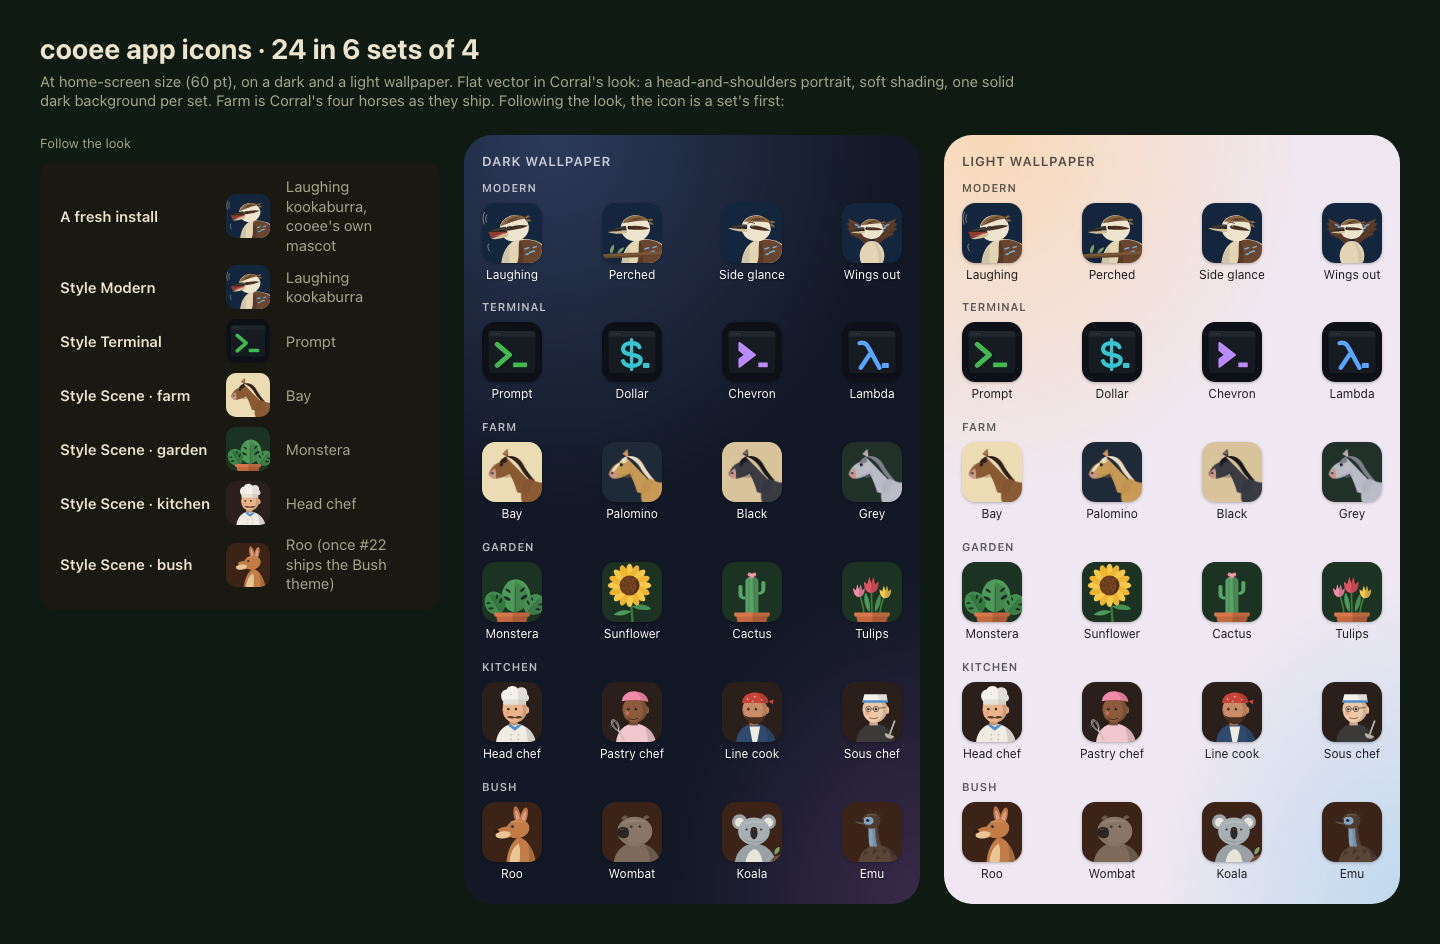
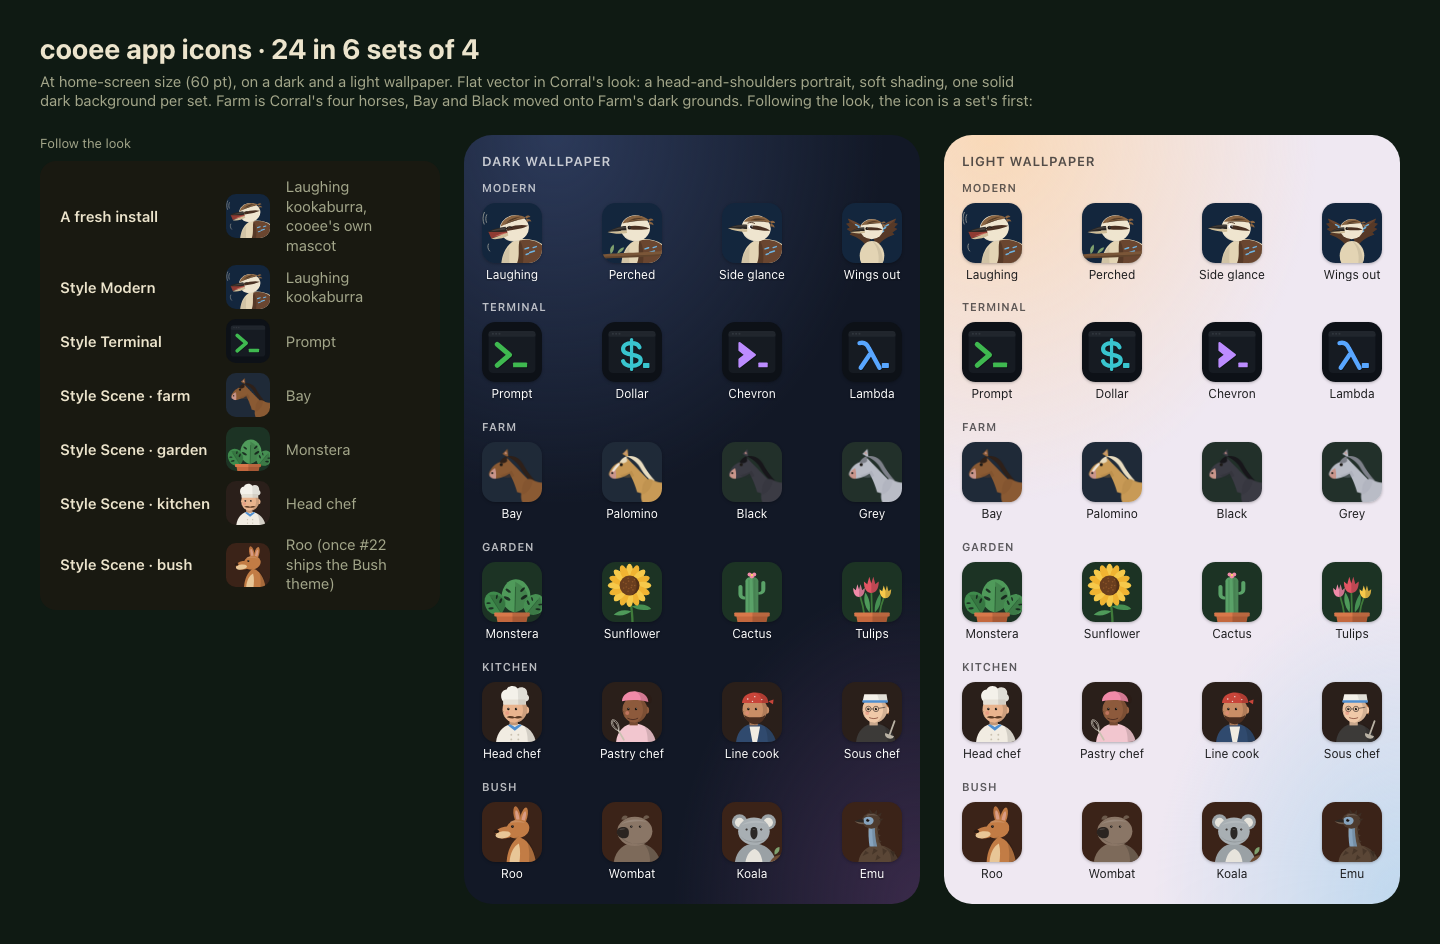
design: Farm Bay and Black on dark grounds, no paragraph under Follow the look (#225)

diff --git a/docs/design/app-icons/ai.js b/docs/design/app-icons/ai.js
@@ -24,14 +24,11 @@ const wallpaper = (kind, title) => `<div class="wp ${kind}"><h3>${title}</h3>${S
 // The picker: Follow the look, then every set as four tiles.
 function picker(picked) {
   const follow = `<div class="rw two">${img('modern', 'laughing', 44)}<div class="tx">Follow the look<small>${picked ? "Off · would show Laughing · Modern" : "Now: Laughing · Modern"}</small></div>${picked ? '' : '<span class="ck">✓</span>'}</div>`;
-  const foot = picked
-    ? `<p class="sf">${picked[1]} stays through Style and Theme changes until you choose Follow the look.</p>`
-    : `<p class="sf">The icon changes with Style and Theme: Modern and Terminal show their set's first icon, Scene its theme's.</p>`;
   const sets = SETS.map(([set, label, , icons]) => group(label, `<div class="tg4">${icons.map(([n, name]) => {
     const cls = picked ? (picked[0] === `${set}-${n}` ? ' on' : '') : (set === 'modern' && n === 'laughing' ? ' now' : '');
     return `<div class="tl${cls}"><div class="fr">${img(set, n, 64)}</div><span>${name}</span></div>`;
   }).join('')}</div>`)).join('');
-  return phone(group('', follow) + foot + sets, 'Look', 'App icon');
+  return phone(group('', follow) + sets, 'Look', 'App icon');
 }
 
 function look() {
@@ -48,7 +45,7 @@ const mapping = `<div class="map">${MAP.map(([when, set, n, what]) => `<b>${when
 
 const FRAMES = {
   sheet: () => `<div class="ph">${status}<div class="lt">App icons</div><div class="pg">${wallpaper('d', 'Dark wallpaper')}${wallpaper('l', 'Light wallpaper')}</div></div>`,
-  'wide-sheet': () => `<div class="bd"><h1>cooee app icons · 24 in 6 sets of 4</h1><p>At home-screen size (60 pt), on a dark and a light wallpaper. Flat vector in Corral's look: a head-and-shoulders portrait, soft shading, one solid dark background per set. Farm is Corral's four horses as they ship. Following the look, the icon is a set's first:</p>
+  'wide-sheet': () => `<div class="bd"><h1>cooee app icons · 24 in 6 sets of 4</h1><p>At home-screen size (60 pt), on a dark and a light wallpaper. Flat vector in Corral's look: a head-and-shoulders portrait, soft shading, one solid dark background per set. Farm is Corral's four horses, Bay and Black moved onto Farm's dark grounds. Following the look, the icon is a set's first:</p>
     <div class="cols" style="grid-template-columns:400px 1fr 1fr"><div><p class="cap">Follow the look</p>${mapping}</div>${wallpaper('d', 'Dark wallpaper')}${wallpaper('l', 'Light wallpaper')}</div></div>`,
   look, picker: () => picker(null), picked: () => picker(['bush-koala', 'Koala']),
   'wide-picker': () => {

diff --git a/docs/design/app-icons/ai.css b/docs/design/app-icons/ai.css
@@ -36,7 +36,6 @@ body{margin:0;font:15px/1.3 var(--font);-webkit-font-smoothing:antialiased}
 .rw .cv{color:var(--mute);font-size:15px;font-weight:600}
 .rw.two{min-height:64px;padding:10px 14px}
 .rw .tx{display:flex;flex-direction:column;gap:2px;min-width:0}.rw .tx small{color:var(--mute);font-size:13px;white-space:nowrap;overflow:hidden;text-overflow:ellipsis}
-.sf{margin:-12px 16px 0;font-size:13px;color:var(--mute)}
 
 /* the picker: four tiles to a set */
 .tg4{display:grid;grid-template-columns:repeat(4,1fr);gap:4px;padding:12px 8px 10px}

diff --git a/docs/design/app-icons/farm.py b/docs/design/app-icons/farm.py
@@ -1,0 +1,34 @@
+"""#225 (q1289): Farm's Bay and Black on a dark background, rendered by Corral's own generator.
+
+Corral's design gate (`docs/design/evidence/issue-462-horse-icons/tools/gen_icons.py` at 060220c3) draws the four
+Treatment-A masters with one `BG` per coat. Nothing else changes here: same canonical `horsesvg.py`, crop, pose and
+supersampling. Only Bay and Black move from Corral's light grounds onto Farm's two dark ones, the ones Palomino and Grey
+already use. Rendering Palomino and Grey this way reproduces Corral's shipped masters byte for byte, which proves
+the pipeline matches.
+
+Usage: uv run --no-project --with pillow python docs/design/app-icons/farm.py <corral checkout at 060220c3>
+"""
+
+import hashlib
+import sys
+from pathlib import Path
+
+CORRAL = Path(sys.argv[1]).resolve()
+sys.path.insert(0, str(CORRAL / 'docs/design/evidence/issue-462-horse-icons/tools'))
+import gen_icons as g  # noqa: E402
+
+OUT = Path(__file__).resolve().parent / 'icons'
+GROUND = {'bay': '#1f2a38', 'palomino': '#1f2a38', 'black': '#22302a', 'grey': '#22302a'}
[2 lines of base64/hex data omitted]
+
+prims = {c: g.svgmini.parse_primitives(g.horsesvg.horse_svg(g.identity(c), g.POSE, False, g.FACING, False))
+         for c in g.COATS}
+window = g.crop_windows(prims['bay'])[0]
+for coat in g.COATS:
+    out = OUT / f'farm-{coat}.png'
+    g.render_window(prims[coat], window, GROUND[coat], out)
+    digest = hashlib.sha256(out.read_bytes()).hexdigest()
+    if coat in SHIPPED and digest != SHIPPED[coat]:
+        sys.exit(f'farm-{coat}.png drifted from Corral\'s shipped master: {digest}')
+    print(f'farm-{coat}.png {GROUND[coat]} {digest}')

diff --git a/docs/design/app-icons/README.md b/docs/design/app-icons/README.md
@@ -3,7 +3,7 @@
 There are 24 iOS and macOS app icons. They are flat vector, in the look of Corral's horses (its herd-art Treatment A):
 a head-and-shoulders portrait facing left, flat fills with soft shading (black or white at low opacity), and one
 solid dark background per set. The icon **follows the look** (Style, and for Scene the theme), and Look → App icon
-lets you **pick any of the 24 instead**. Owner decisions: q1281–q1288.
+lets you **pick any of the 24 instead**. Owner decisions: q1281–q1289.
 
 The pages are built on the native v1 look (`apple/design/v1/`). `ai.css` copies `Theme.swift`'s `Palette.farmDark`
 and `.farmLight` token for token. Its groups, rows, uppercase headers and checkmarks follow `Sheets.swift`'s `Group2`
@@ -12,7 +12,8 @@ checkmark in `link`. The only new pieces are the icon squircle, the picker's fou
 
 | file | what |
 |---|---|
-| `icons/` | The 24 icons. `farm-*.png` are Corral's four approved masters, **copied byte for byte** (`jirathip-dev/corral` `ios/FleetNotifier/Assets.xcassets/{AppIcon,Palomino,Black,Grey}.appiconset`, 1024 × 1024 opaque RGB). The other 20 are `<set>-<name>.svg` at 1024 × 1024. |
+| `icons/` | The 24 icons. `farm-*.png` are Corral's four Treatment-A horses at 1024 × 1024 opaque RGB. Palomino and Grey are byte-identical to Corral's shipped masters. Bay and Black are re-rendered on dark grounds (q1289). The other 20 are `<set>-<name>.svg` at 1024 × 1024. |
+| `farm.py` | Renders the four `farm-*.png` with **Corral's own generator**: `uv run --no-project --with pillow python docs/design/app-icons/farm.py <corral checkout at 060220c3>`. It uses `gen_icons.py` from Corral's #462 design gate and the canonical `horsesvg.py`, with the same crop, pose and supersampling, and changes only the `BG` of each coat. It fails if Palomino or Grey drift from Corral's shipped bytes, so the pipeline is proven identical. |
 | `art.mjs` | Draws the 20 SVGs: `node docs/design/app-icons/art.mjs`. |
 | `icons.html`, `picker.html`, `ai.js`, `ai.css` | The two pages. `?f=<frame>&mode=dark\|light` shows one frame. |
 | `shoot.mjs` | `node docs/design/app-icons/shoot.mjs <chrome-headless-shell> [regexp]` regenerates every PNG, each at full height (390 wide at 2×, 1440 at 1×). It checks each shot for sideways scroll, anything past the right edge, and text cut without an ellipsis. **All 9 pass.** |
@@ -25,7 +26,7 @@ The first icon of each set is the one the look shows when you follow it.
 |---|---|---|---|---|---|
 | **Modern**: cooee's kookaburra | navy `#13263d` | `modern-laughing`: **Laughing**, beak open, eyes shut, laugh lines | `modern-perched`: **Perched** on a gum branch | `modern-glance`: **Side glance**, a wide eye looking back, brow up | `modern-wings`: **Wings out**, blue wing patches |
 | **Terminal**: prompt glyphs in a window | `#0d1117` (github-dark's `--bg`) | `terminal-prompt`: **Prompt** `>_` in green | `terminal-dollar`: **Dollar** `$` in cyan | `terminal-chevron`: **Chevron** `❯` in purple | `terminal-lambda`: **Lambda** `λ` in blue |
-| **Farm**: Corral's horses, as they ship | Corral's own | `farm-bay`: **Bay** | `farm-palomino`: **Palomino** | `farm-black`: **Black** | `farm-grey`: **Grey** |
+| **Farm**: Corral's horses | night pasture `#1f2a38` (Bay, Palomino), deep pine `#22302a` (Black, Grey): Corral's two dark grounds | `farm-bay`: **Bay** | `farm-palomino`: **Palomino** | `farm-black`: **Black** | `farm-grey`: **Grey** |
 | **Garden**: the shop's plants | leaf `#1c3324` | `garden-monstera`: **Monstera**, the garden theme's own icon leaf | `garden-sunflower`: **Sunflower** | `garden-cactus`: **Cactus** in flower | `garden-tulips`: **Tulips** |
 | **Kitchen**: the line's cooks | espresso `#2a1f1a` | `kitchen-head-chef`: **Head chef**, toque and moustache, the pack's blue neckerchief | `kitchen-pastry`: **Pastry chef**, pink cap and whisk | `kitchen-line-cook`: **Line cook**, red bandana and beard | `kitchen-sous`: **Sous chef**, paper cap, glasses and ladle |
 | **Bush**: drawn now, reused by #22 (q1283) | red earth `#3b2318` | `bush-roo`: **Roo** | `bush-wombat`: **Wombat** | `bush-koala`: **Koala** on a gum branch | `bush-emu`: **Emu** |
@@ -44,8 +45,8 @@ The first icon of each set is the one the look shows when you follow it.
 | PNG | shows | decision |
 |---|---|---|
 | `look-390-dark.png`, `-light.png` | **Look** (the native app's Appearance, reached from the avatar menu's Settings) keeps Scheme and Style and gains an **App icon** group. Its one row shows the current icon in place of `SettingRow`'s tinted symbol, with the value `Follows the look` and a ›. | The picker sits under Look, beside the Style it follows, rather than on a new Appearance screen. |
-| `picker-390-dark.png`, `-light.png` | **App icon**, while following. The top row is **Follow the look** ✓, with the icon it shows now (`Now: Laughing · Modern`) and a line on how it follows. Then each set is a group of **four tiles** (a 64 pt icon and its name), the same grid as Corral's `AppIconPicker`. The icon the look shows now has a **dashed ring**, which means "following, not picked". | Following is one row at the top, not a 25th tile. The dashed ring shows what you get without picking anything. |
-| `picked-390-dark.png`, `-light.png` | **Koala picked.** The Koala tile has a **solid ring in `link`, a ✓ badge and its name in `link`**. Follow the look loses its ✓ and reads `Off · would show Laughing · Modern`. The footnote reads: "Koala stays through Style and Theme changes until you choose Follow the look." | A picked icon stays until you choose Follow the look again (scope 3). |
+| `picker-390-dark.png`, `-light.png` | **App icon**, while following. The top row is **Follow the look** ✓, with the icon it shows now (`Now: Laughing · Modern`). No paragraph under it (q1289). Then each set is a group of **four tiles** (a 64 pt icon and its name), the same grid as Corral's `AppIconPicker`. The icon the look shows now has a **dashed ring**, which means "following, not picked". | Following is one row at the top, not a 25th tile. The dashed ring shows what you get without picking anything. |
+| `picked-390-dark.png`, `-light.png` | **Koala picked.** The Koala tile has a **solid ring in `link`, a ✓ badge and its name in `link`**. Follow the look loses its ✓ and reads `Off · would show Laughing · Modern`. There is no footnote. | A picked icon stays until you choose Follow the look again (scope 3). |
 | `picker-1440.png` | The three frames side by side: Look, following (dark), and Koala picked (light). | |
 
 **Set order in the picker:** Modern, Terminal, Farm, Garden, Kitchen, Bush. That is the order the look resolves
@@ -68,8 +69,6 @@ them: the two Styles first, then Scene's themes. Modern leads because it is the 
 1. **The native app has no Theme setting yet.** Look has Scheme and Style only, and Scene draws the farm. Until a
    Theme exists, following the look in Scene always gives Bay. Garden, Kitchen and Bush can only be picked by hand.
    Should #225 add a Theme picker to Look, or should following wait for the issue that brings themes to native?
-2. **Farm's backgrounds are Corral's, kept as they are.** Bay and Black sit on cream, Palomino on navy, Grey on dark
-   green. So Farm is the one set without a single solid dark background. Keep them byte-identical (recommended,
-   because "as-is"), or re-render them on one dark farm background?
+2. **Black on a dark ground is low contrast** (q1289). Its coat `#3b3b44` against deep pine `#22302a` measures 1.24:1, and against any dark ground it stays under 1.7:1. Deep pine reads best of the candidates (night pasture, `#121a26`, `#0f141c`), because the green separates from the cool grey coat by hue, and the pink muzzle and ear carry the silhouette at 60 pt. If that is still too dim, a tweak to Black's coat or mane is the alternative, which would no longer be Corral's art as-is.
 3. **macOS.** Does the Mac app get the picker too? A running app can change its Dock icon, but its Finder icon stays
    the primary. The recommendation: the Mac shows the same art and follows the look in the Dock, with no picker.
